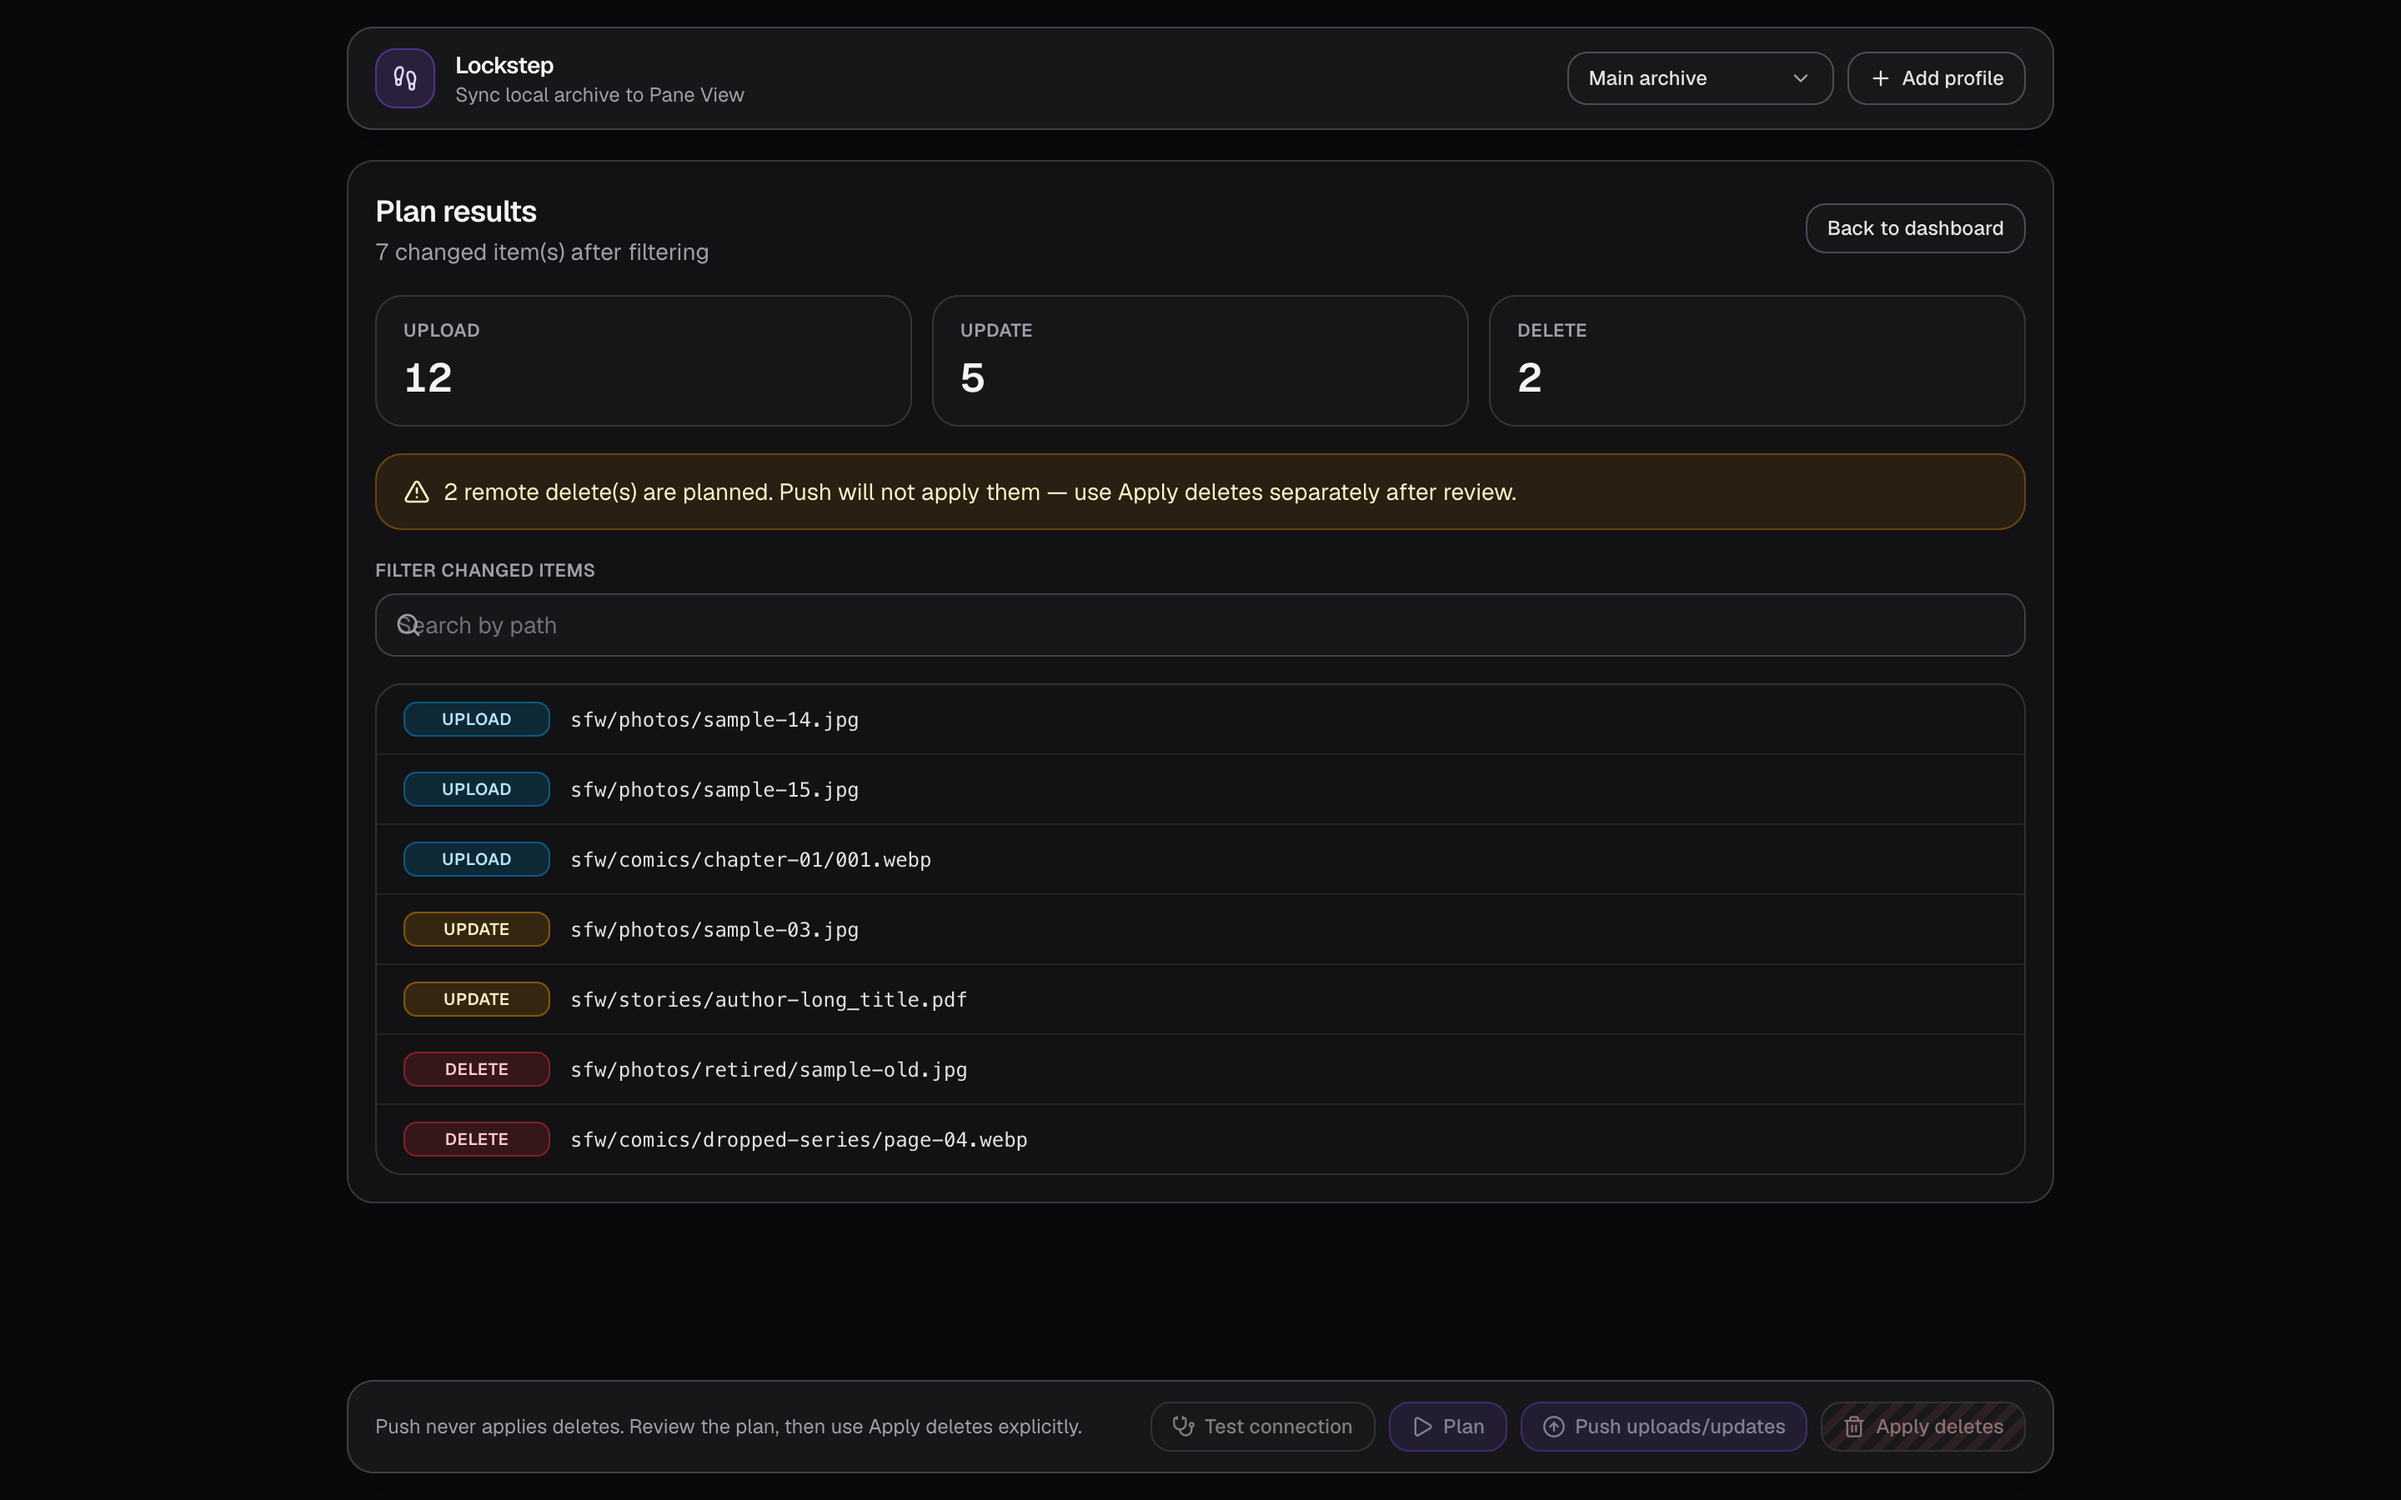
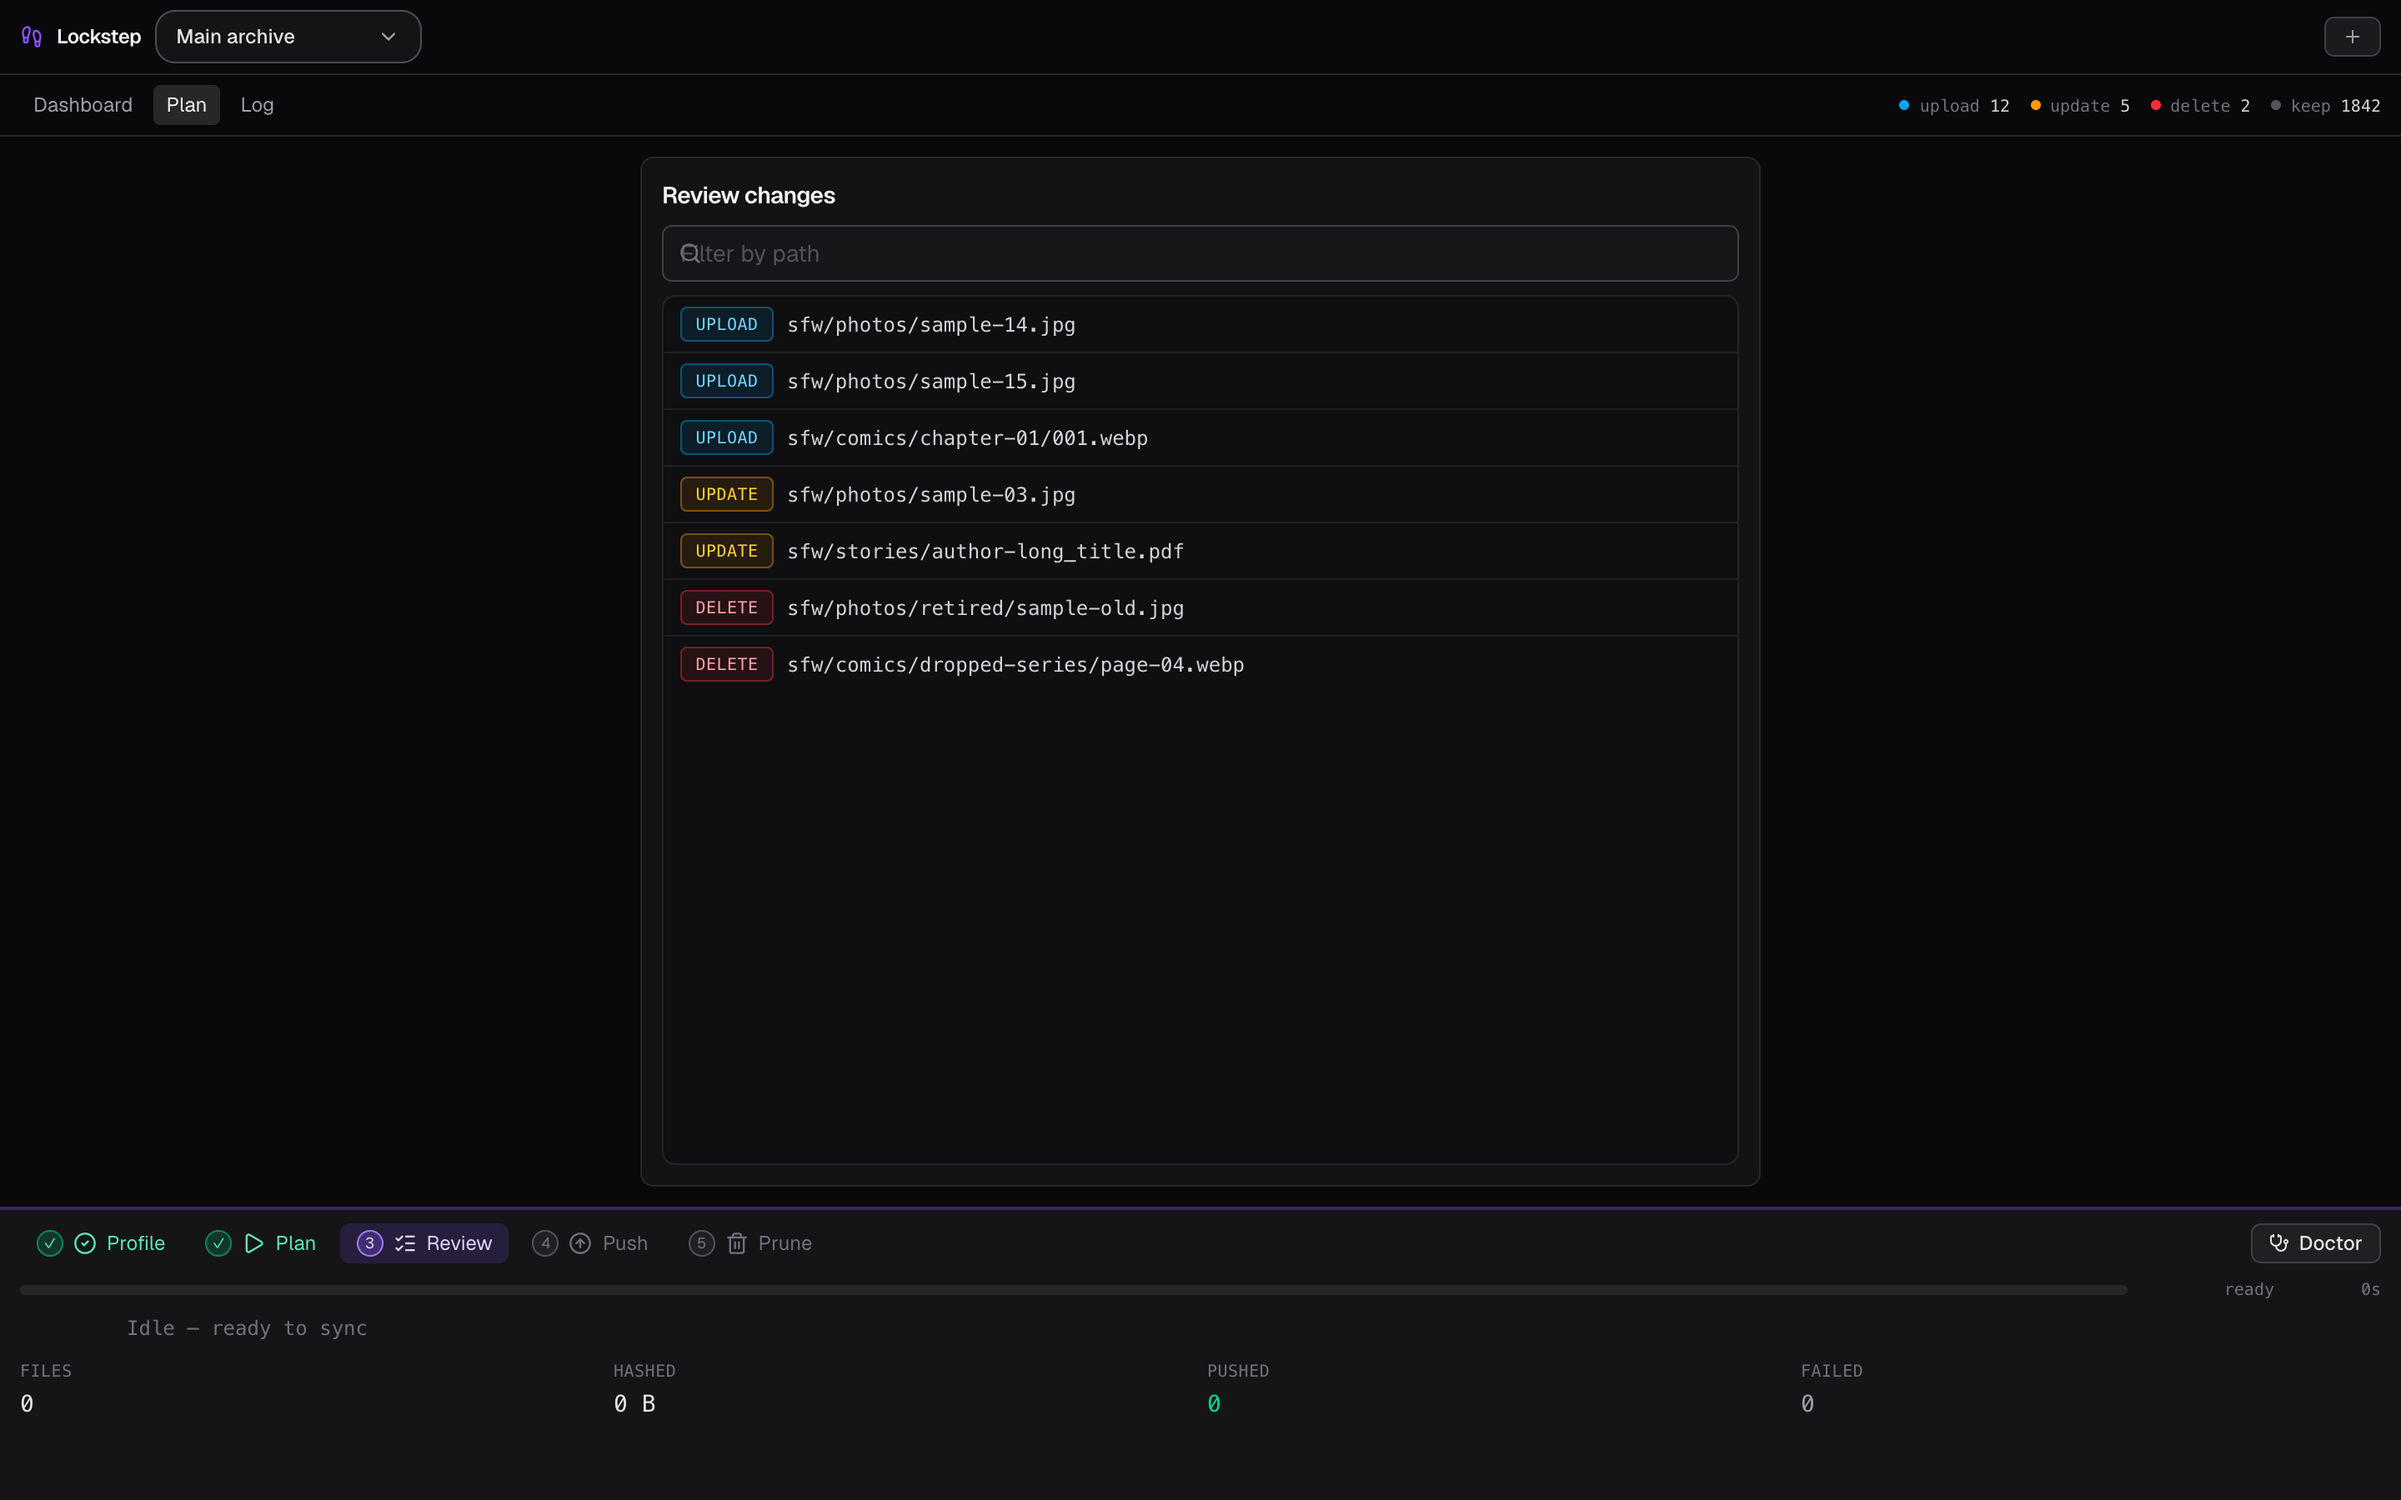
Refactor Lockstep showcase to use AppLayout

diff --git a/apps/lockstep/src/showcase/screens.tsx b/apps/lockstep/src/showcase/screens.tsx
@@ -1,8 +1,9 @@
-import { ActionDock } from "../renderer/components/ActionDock";
-import { AppHeader } from "../renderer/components/AppHeader";
-import { AppShell } from "../renderer/components/AppShell";
-import { PlanResultsView } from "../renderer/views/PlanResultsView";
-import { RunProgressView } from "../renderer/views/RunProgressView";
+import { AppLayout } from "../renderer/components/AppLayout";
+import type {
+  LockstepController,
+  RunProgressState,
+  Screen,
+} from "../renderer/hooks/useLockstepController";
 import type { LockstepPlan, LockstepPlanItem, LockstepSettings } from "../shared/types";
 
 export const showcaseSettings: LockstepSettings = {
@@ -11,6 +12,13 @@ export const showcaseSettings: LockstepSettings = {
     {
       apiUrl: "https://archive.example.com",
       id: "showcase-profile",
+      lastRun: {
+        action: "push",
+        completedAt: "2026-06-27T00:00:00.000Z",
+        failed: 0,
+        pushed: 18,
+        status: "completed",
+      },
       name: "Main archive",
       sourceRoot: "/Volumes/Media/archive",
       tokenConfigured: true,
@@ -47,25 +55,6 @@ function showcasePlanItems(): LockstepPlanItem[] {
   ];
 }
 
-const noop = () => undefined;
-
-export function ShowcasePlanScreen() {
-  return (
-    <AppShell
-      header={<AppHeader onAddProfile={noop} onProfileChange={noop} settings={showcaseSettings} />}
-    >
-      <PlanResultsView
-        filter=""
-        items={showcasePlanItems()}
-        onBack={noop}
-        onFilterChange={noop}
-        plan={showcasePlan}
-      />
-      <ActionDock disabled onDoctor={noop} onPlan={noop} onPrune={noop} onPush={noop} />
-    </AppShell>
-  );
-}
-
 const pushLogs = [
   "Creating sync run...",
   "Pushing 8 upload/update change(s).",
@@ -76,20 +65,89 @@ const pushLogs = [
   "Hashing sfw/stories/author-long_title.pdf (847 files)",
 ];
 
+const idleProgress: RunProgressState = {
+  action: "",
+  bytesHashed: 0,
+  currentAction: null,
+  currentPath: null,
+  endedAt: null,
+  failed: 0,
+  fileSize: null,
+  itemCurrent: 0,
+  itemTotal: 0,
+  phase: "idle",
+  pushed: 0,
+  scanFilesFound: 0,
+  scanPath: null,
+  scanSkipped: 0,
+  scanStage: null,
+  startedAt: null,
+  summaryMessage: null,
+};
+
+function pushProgress(): RunProgressState {
+  return {
+    ...idleProgress,
+    action: "push",
+    bytesHashed: 684_000_000,
+    currentAction: "update",
+    currentPath: "sfw/photos/sample-03.jpg",
+    itemCurrent: 4,
+    itemTotal: 8,
+    phase: "items",
+    pushed: 3,
+    scanFilesFound: 1866,
+    scanSkipped: 3,
+    startedAt: Date.now() - 18_000,
+  };
+}
+
+const noop = () => undefined;
+const noopAsync = async () => undefined;
+
+function createController(screen: Screen): LockstepController {
+  const running = screen === "run";
+  const runProgress = running ? pushProgress() : idleProgress;
+
+  return {
+    activeProfile: showcaseSettings.profiles[0] ?? null,
+    doctorResult: null,
+    error: null,
+    filter: "",
+    filteredItems: showcasePlan.items.filter((item) => item.action !== "keep"),
+    handleCancel: noopAsync,
+    handleCreateProfile: noopAsync,
+    handleDoctor: noopAsync,
+    handlePickFolder: noopAsync,
+    handlePlan: noopAsync,
+    handleProfileChange: noopAsync,
+    handlePrune: noopAsync,
+    handlePush: noopAsync,
+    logs: running ? pushLogs : [],
+    plan: showcasePlan,
+    profileForm: {
+      apiUrl: "http://localhost:3000",
+      name: "",
+      sourceRoot: "",
+      token: "",
+    },
+    runLabel: running ? "[4/8] update sfw/photos/sample-03.jpg" : "",
+    runProgress,
+    running,
+    screen,
+    sessionToken: "",
+    setFilter: noop,
+    setProfileForm: noop,
+    setScreen: noop,
+    setSessionToken: noop,
+    settings: showcaseSettings,
+  };
+}
+
+export function ShowcasePlanScreen() {
+  return <AppLayout ctrl={createController("plan")} />;
+}
+
 export function ShowcasePushScreen() {
-  return (
-    <AppShell
-      header={<AppHeader onAddProfile={noop} onProfileChange={noop} settings={showcaseSettings} />}
-    >
-      <RunProgressView
-        doctorResult={null}
-        logs={pushLogs}
-        onBack={noop}
-        onCancel={noop}
-        running
-        runLabel="[4/8] update sfw/photos/sample-03.jpg"
-      />
-      <ActionDock disabled onDoctor={noop} onPlan={noop} onPrune={noop} onPush={noop} />
-    </AppShell>
-  );
+  return <AppLayout ctrl={createController("run")} />;
 }
